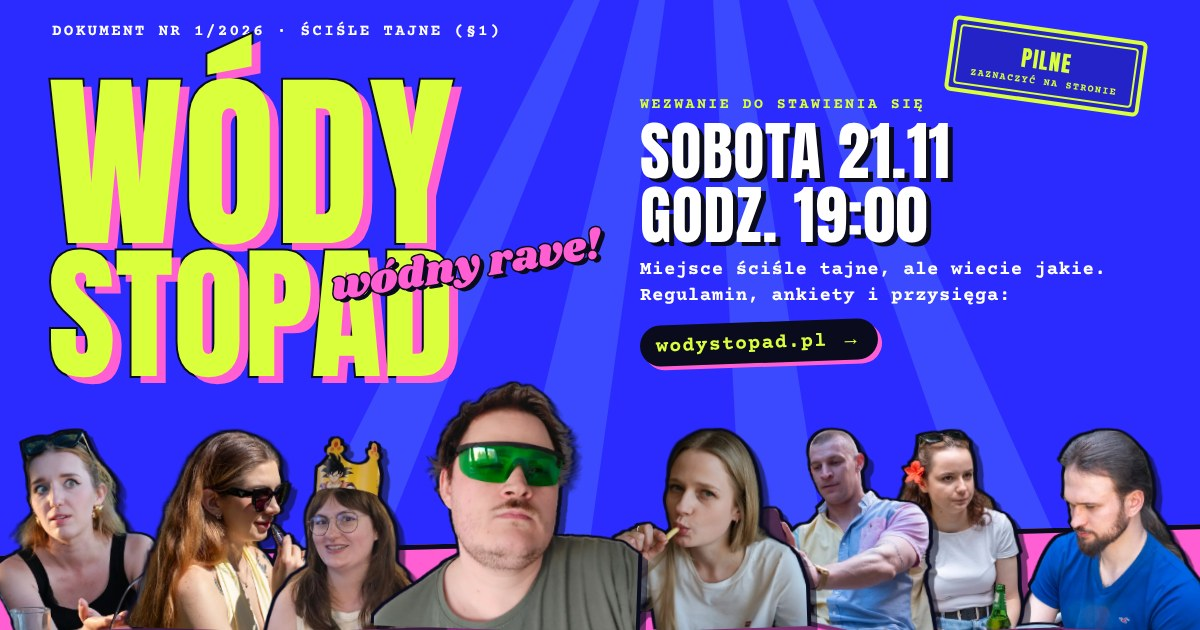
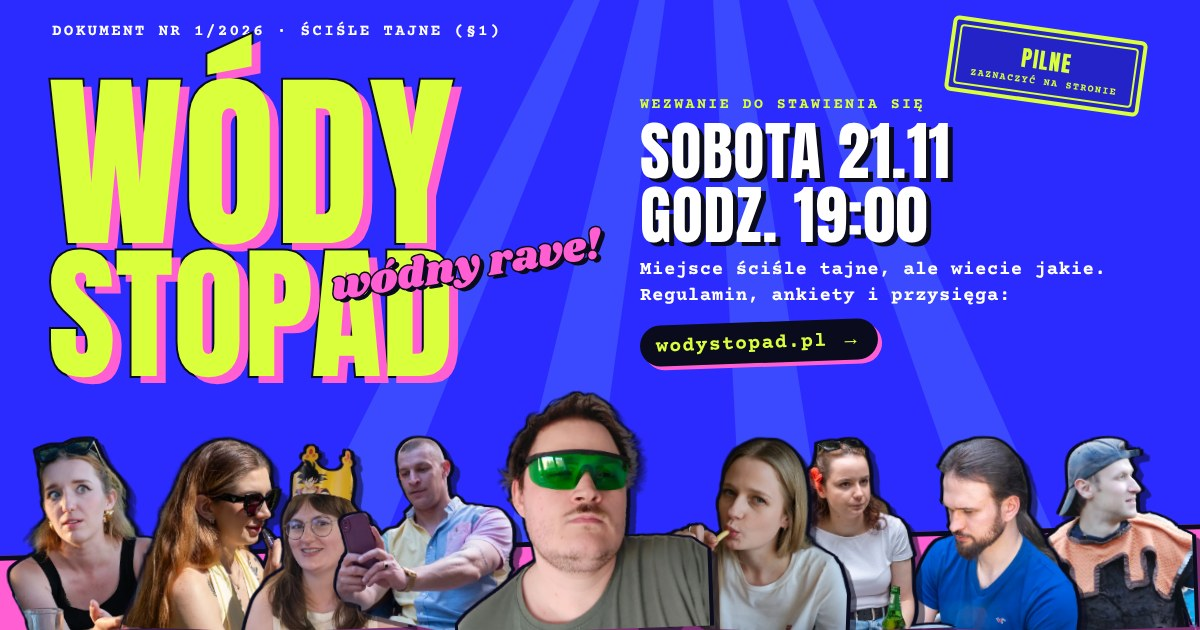
Zdjęcie Koliego, Koli niepotwierdzony, Magda i Konrad potwierdzeni, baner z dziewiątką (og.jpg?v=3)
Claude-Session: https://claude.ai/code/session_01Q6mtA3FM7HAc1Vv4gDvJxZ

Changed region(s): [[0.0, 0.6032, 1.0, 1.0]]

diff --git a/tools/og-banner.html b/tools/og-banner.html
@@ -16,9 +16,9 @@ h1{position:absolute;left:48px;top:78px;font:400 146px/.9 Anton;color:#D9FF3D;-w
 .stamp small{display:block;font:700 10px CP;letter-spacing:.14em}
 .stage{position:absolute;left:-20px;right:-20px;bottom:-40px;height:130px;background:#FF5FD2;border-top:5px solid #0B0B1E;transform:rotate(-1.5deg)}
 .crew{position:absolute;left:0;right:0;bottom:0;display:flex;justify-content:center;align-items:flex-end;height:330px}
-.crew img{height:200px;width:auto;margin-left:-56px;filter:drop-shadow(4px 0 0 #0B0B1E) drop-shadow(-3px -2px 0 #0B0B1E) drop-shadow(6px 6px 0 rgba(11,11,30,.55));position:relative}
+.crew img{height:192px;width:auto;margin-left:-67px;filter:drop-shadow(4px 0 0 #0B0B1E) drop-shadow(-3px -2px 0 #0B0B1E) drop-shadow(6px 6px 0 rgba(11,11,30,.55));position:relative}
 .crew img:first-child{margin-left:0}
-.crew img.boss{height:248px}
+.crew img.boss{height:238px}
 .crew img:nth-child(odd){transform:rotate(-2deg)} .crew img:nth-child(even){transform:rotate(2deg)}
 .info .url{display:inline-block;margin-top:14px;background:#0B0B1E;color:#D9FF3D;font:700 20px CP;letter-spacing:.06em;padding:8px 16px;border-radius:999px;box-shadow:4px 4px 0 #FF5FD2;transform:rotate(-2deg)}
 .tag{position:absolute;left:52px;bottom:22px;z-index:9;background:#0B0B1E;color:#fff;font:700 15px CP;letter-spacing:.1em;padding:8px 14px;border-radius:999px;transform:rotate(-2deg);box-shadow:3px 3px 0 #D9FF3D}
@@ -29,6 +29,6 @@ h1{position:absolute;left:48px;top:78px;font:400 146px/.9 Anton;color:#D9FF3D;-w
 <div class="info"><div class="k">WEZWANIE DO STAWIENIA SIĘ</div><div class="big">SOBOTA 21.11<br>GODZ. 19:00</div><div class="sm">Miejsce ściśle tajne, ale wiecie jakie.<br>Regulamin, ankiety i przysięga:</div><div class="url">wodystopad.pl →</div></div>
 <div class="stamp"><span>PILNE<small>ZAZNACZYĆ NA STRONIE</small></span></div>
 <div class="stage"></div>
-<div class="crew"><img src="http://localhost:8765/img/kasia.webp" style="z-index:5"><img src="http://localhost:8765/img/ola.webp" style="z-index:6"><img src="http://localhost:8765/img/klaudia.webp" style="z-index:7"><img src="http://localhost:8765/img/wiktorek.webp" class=boss style="z-index:8"><img src="http://localhost:8765/img/lucja.webp" style="z-index:7"><img src="http://localhost:8765/img/arek.webp" style="z-index:6"><img src="http://localhost:8765/img/magda.webp" style="z-index:5"><img src="http://localhost:8765/img/konrad.webp" style="z-index:4"></div>
+<div class="crew"><img src="http://localhost:8765/img/kasia.webp" style="z-index:5"><img src="http://localhost:8765/img/ola.webp" style="z-index:6"><img src="http://localhost:8765/img/klaudia.webp" style="z-index:7"><img src="http://localhost:8765/img/arek.webp" style="z-index:8"><img src="http://localhost:8765/img/wiktorek.webp" class=boss style="z-index:9"><img src="http://localhost:8765/img/lucja.webp" style="z-index:8"><img src="http://localhost:8765/img/magda.webp" style="z-index:7"><img src="http://localhost:8765/img/konrad.webp" style="z-index:6"><img src="http://localhost:8765/img/koli.webp" style="z-index:5"></div>
 
 </body></html>

diff --git a/index.html b/index.html
@@ -13,13 +13,13 @@
 <meta property="og:url" content="https://wodystopad.pl/">
 <meta property="og:site_name" content="Wódystopad">
 <meta property="og:locale" content="pl_PL">
-<meta property="og:image" content="https://wodystopad.pl/og.jpg?v=2">
-<meta property="og:image:secure_url" content="https://wodystopad.pl/og.jpg?v=2">
+<meta property="og:image" content="https://wodystopad.pl/og.jpg?v=3">
+<meta property="og:image:secure_url" content="https://wodystopad.pl/og.jpg?v=3">
 <meta property="og:image:type" content="image/jpeg">
 <meta property="og:image:width" content="1200">
 <meta property="og:image:height" content="630">
-<meta property="og:image:alt" content="WÓDYSTOPAD 2026 — wezwanie do stawienia się: sobota 21.11, godz. 19:00. Na zdjęciu ośmioro Wódowiczów.">
-<meta name="twitter:image" content="https://wodystopad.pl/og.jpg?v=2">
+<meta property="og:image:alt" content="WÓDYSTOPAD 2026 — wezwanie do stawienia się: sobota 21.11, godz. 19:00. Na zdjęciu dziewięcioro Wódowiczów.">
+<meta name="twitter:image" content="https://wodystopad.pl/og.jpg?v=3">
 <meta name="twitter:card" content="summary_large_image">
 <link rel="icon" href="favicon.svg" type="image/svg+xml">
 <link rel="apple-touch-icon" href="apple-touch-icon.png">
@@ -1112,9 +1112,9 @@ const CONFIG = {
     { name:'Łucja', photo:'img/lucja.webp',    role:'„WÓDONNA Z EDINBRA”',          attack:'Picie w kratkę',       confirmed:true },
     { name:'Ola', photo:'img/ola.webp',      role:'„WÓDŹMINKA”',                  attack:'Próba pszenic',          confirmed:true },
     { name:'Arek', photo:'img/arek.webp',     role:'„MOCNY ZAWÓDNIK”',             attack:'Kolana ze stali',          confirmed:true },
-    { name:'Magda', photo:'img/magda.webp',    role:'„WÓDNA, NIE WINNA”',           attack:'Uniewinnienie',        confirmed:false },
-    { name:'Konrad', photo:'img/konrad.webp',   role:'„KONRAD WÓDENROD”',            attack:'Wielka Improwizacja',  confirmed:false },
-    { name:'Koli',   photo:'',                  role:'„WóDe-40mm”',                  attack:'Wypiera wodę wódą',    confirmed:true },
+    { name:'Magda', photo:'img/magda.webp',    role:'„WÓDNA, NIE WINNA”',           attack:'Uniewinnienie',        confirmed:true },
+    { name:'Konrad', photo:'img/konrad.webp',   role:'„KONRAD WÓDENROD”',            attack:'Wielka Improwizacja',  confirmed:true },
+    { name:'Koli',   photo:'img/koli.webp',                  role:'„WóDe-40mm”',                  attack:'Wypiera wodę wódą',    confirmed:false },
   ],
   rules: [ // §2–§7 (§1 jest stałym banerem)
     'Nie mówimy nikomu o Wódystopadzie, chyba że komuś, komu akurat chcemy powiedzieć, lub jesteśmy po wypiciu znaczących ilości wódeczki.',
